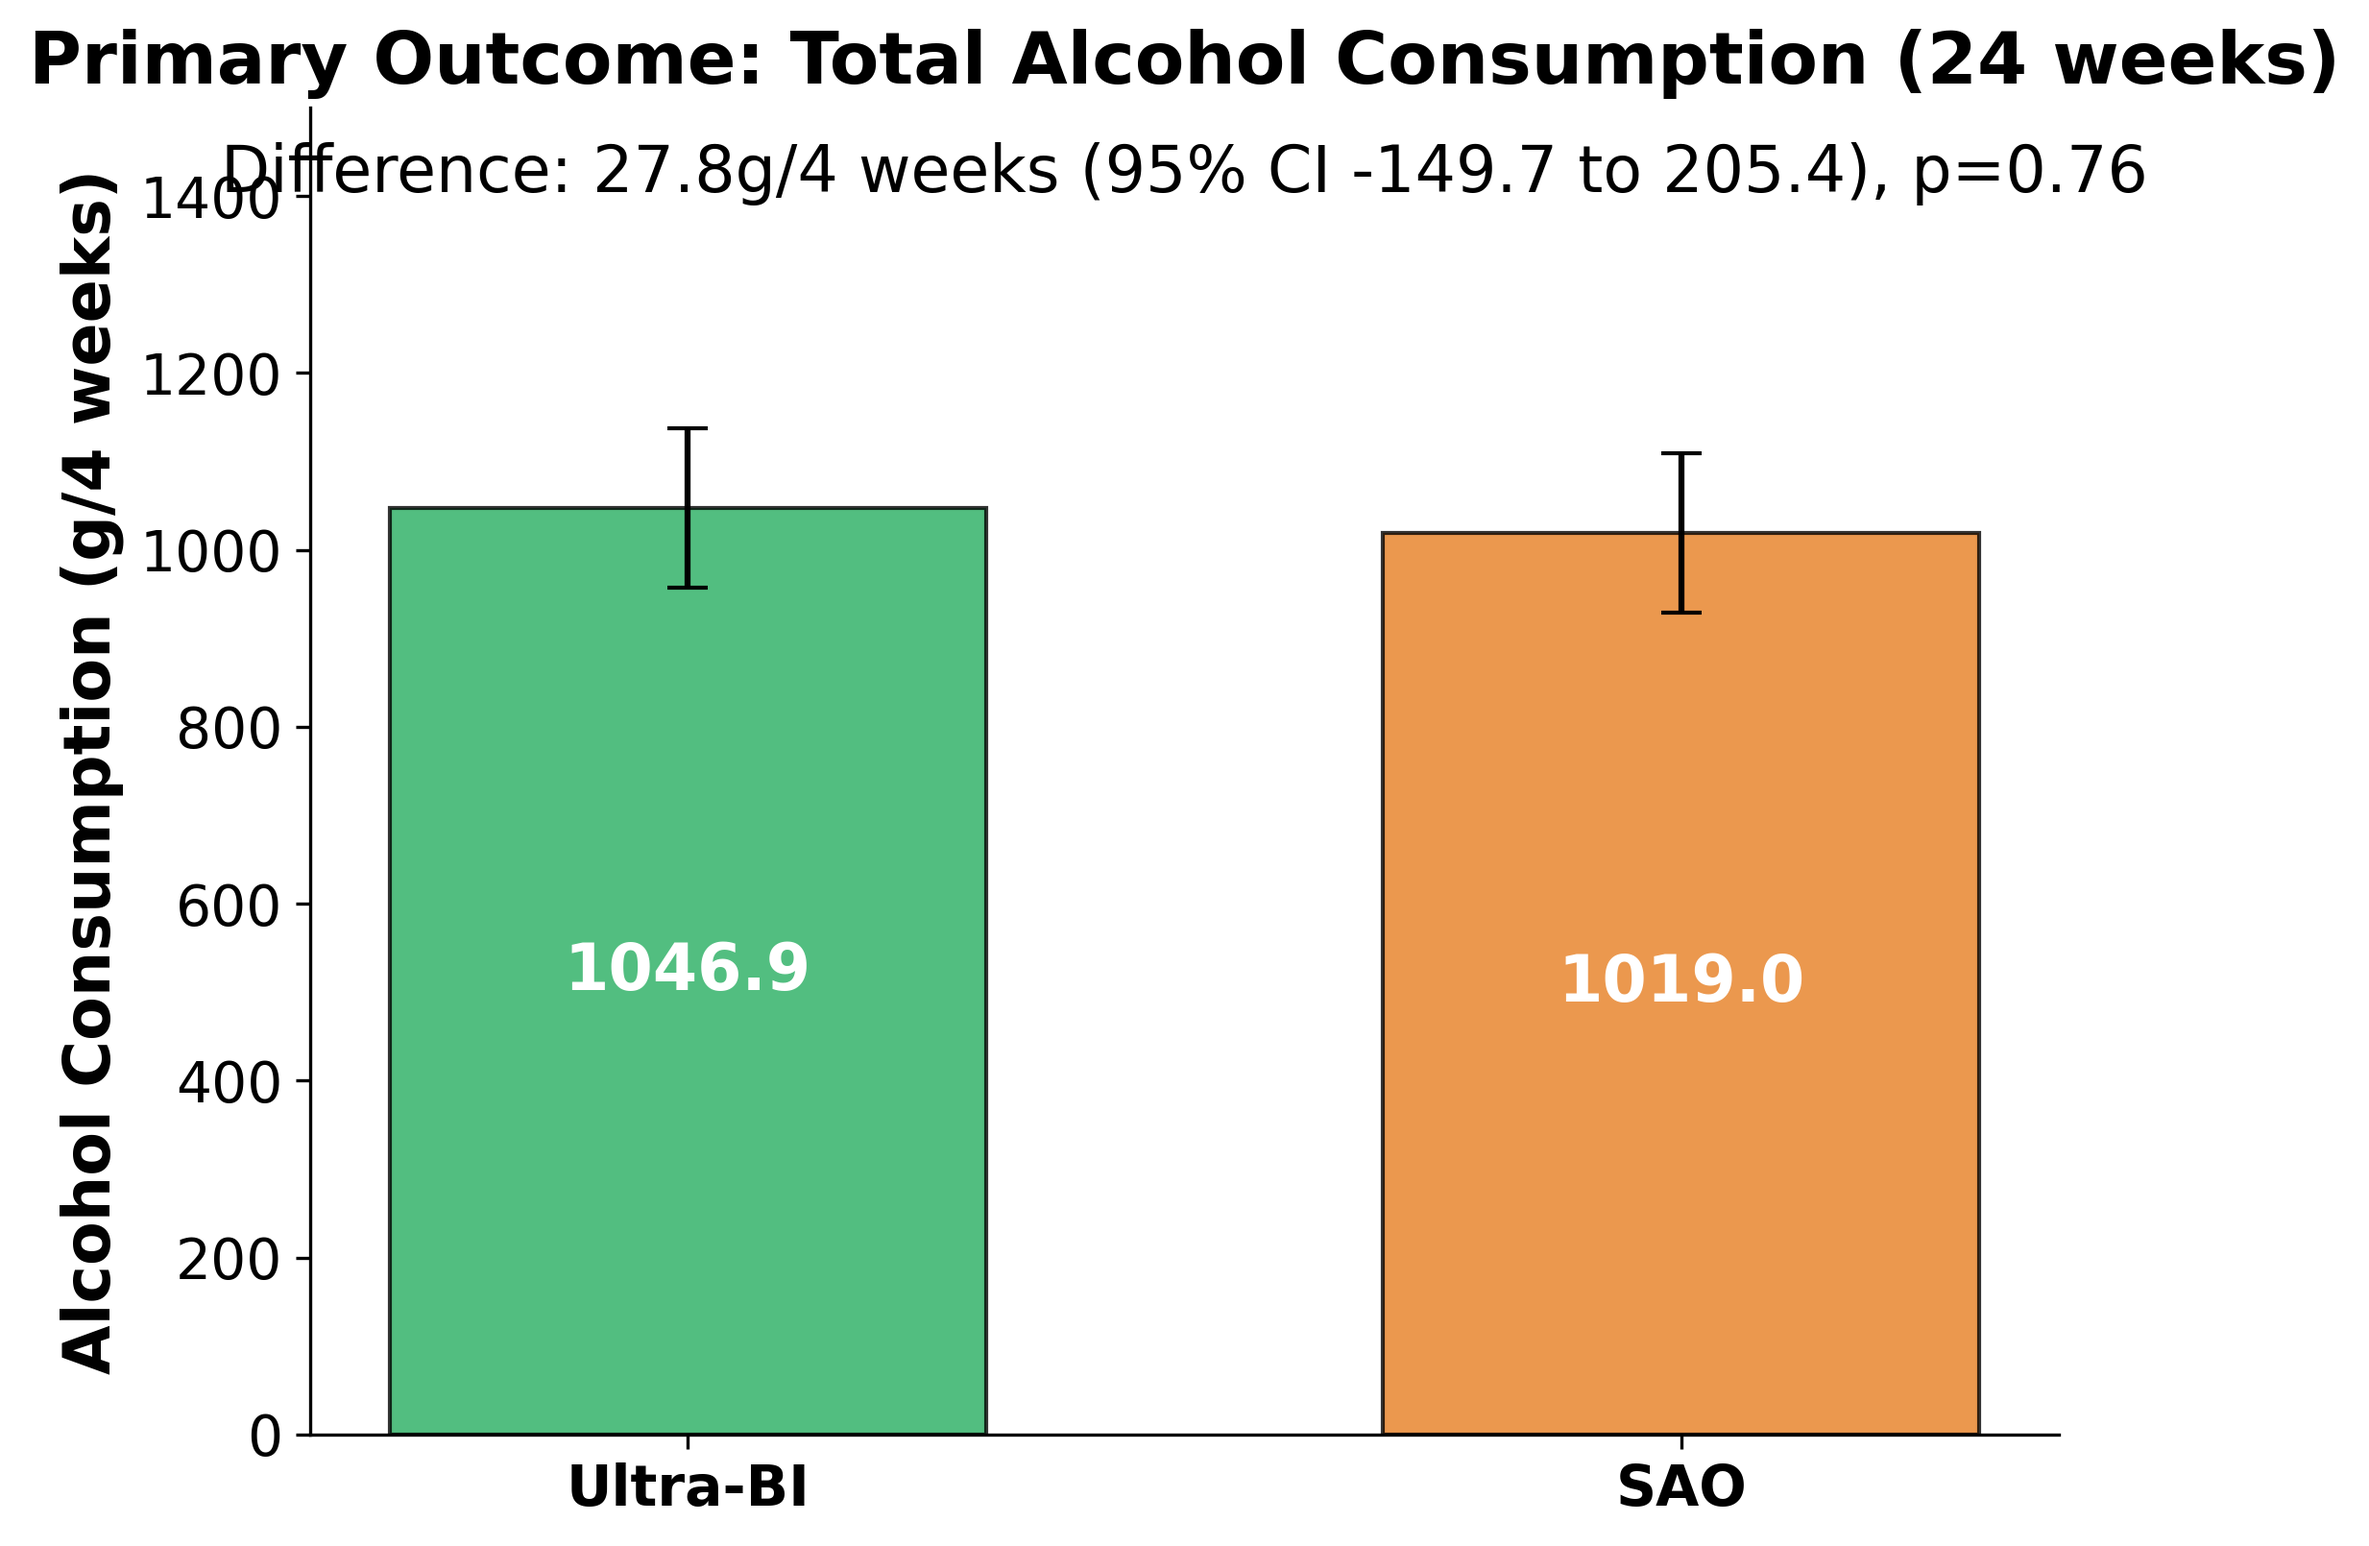
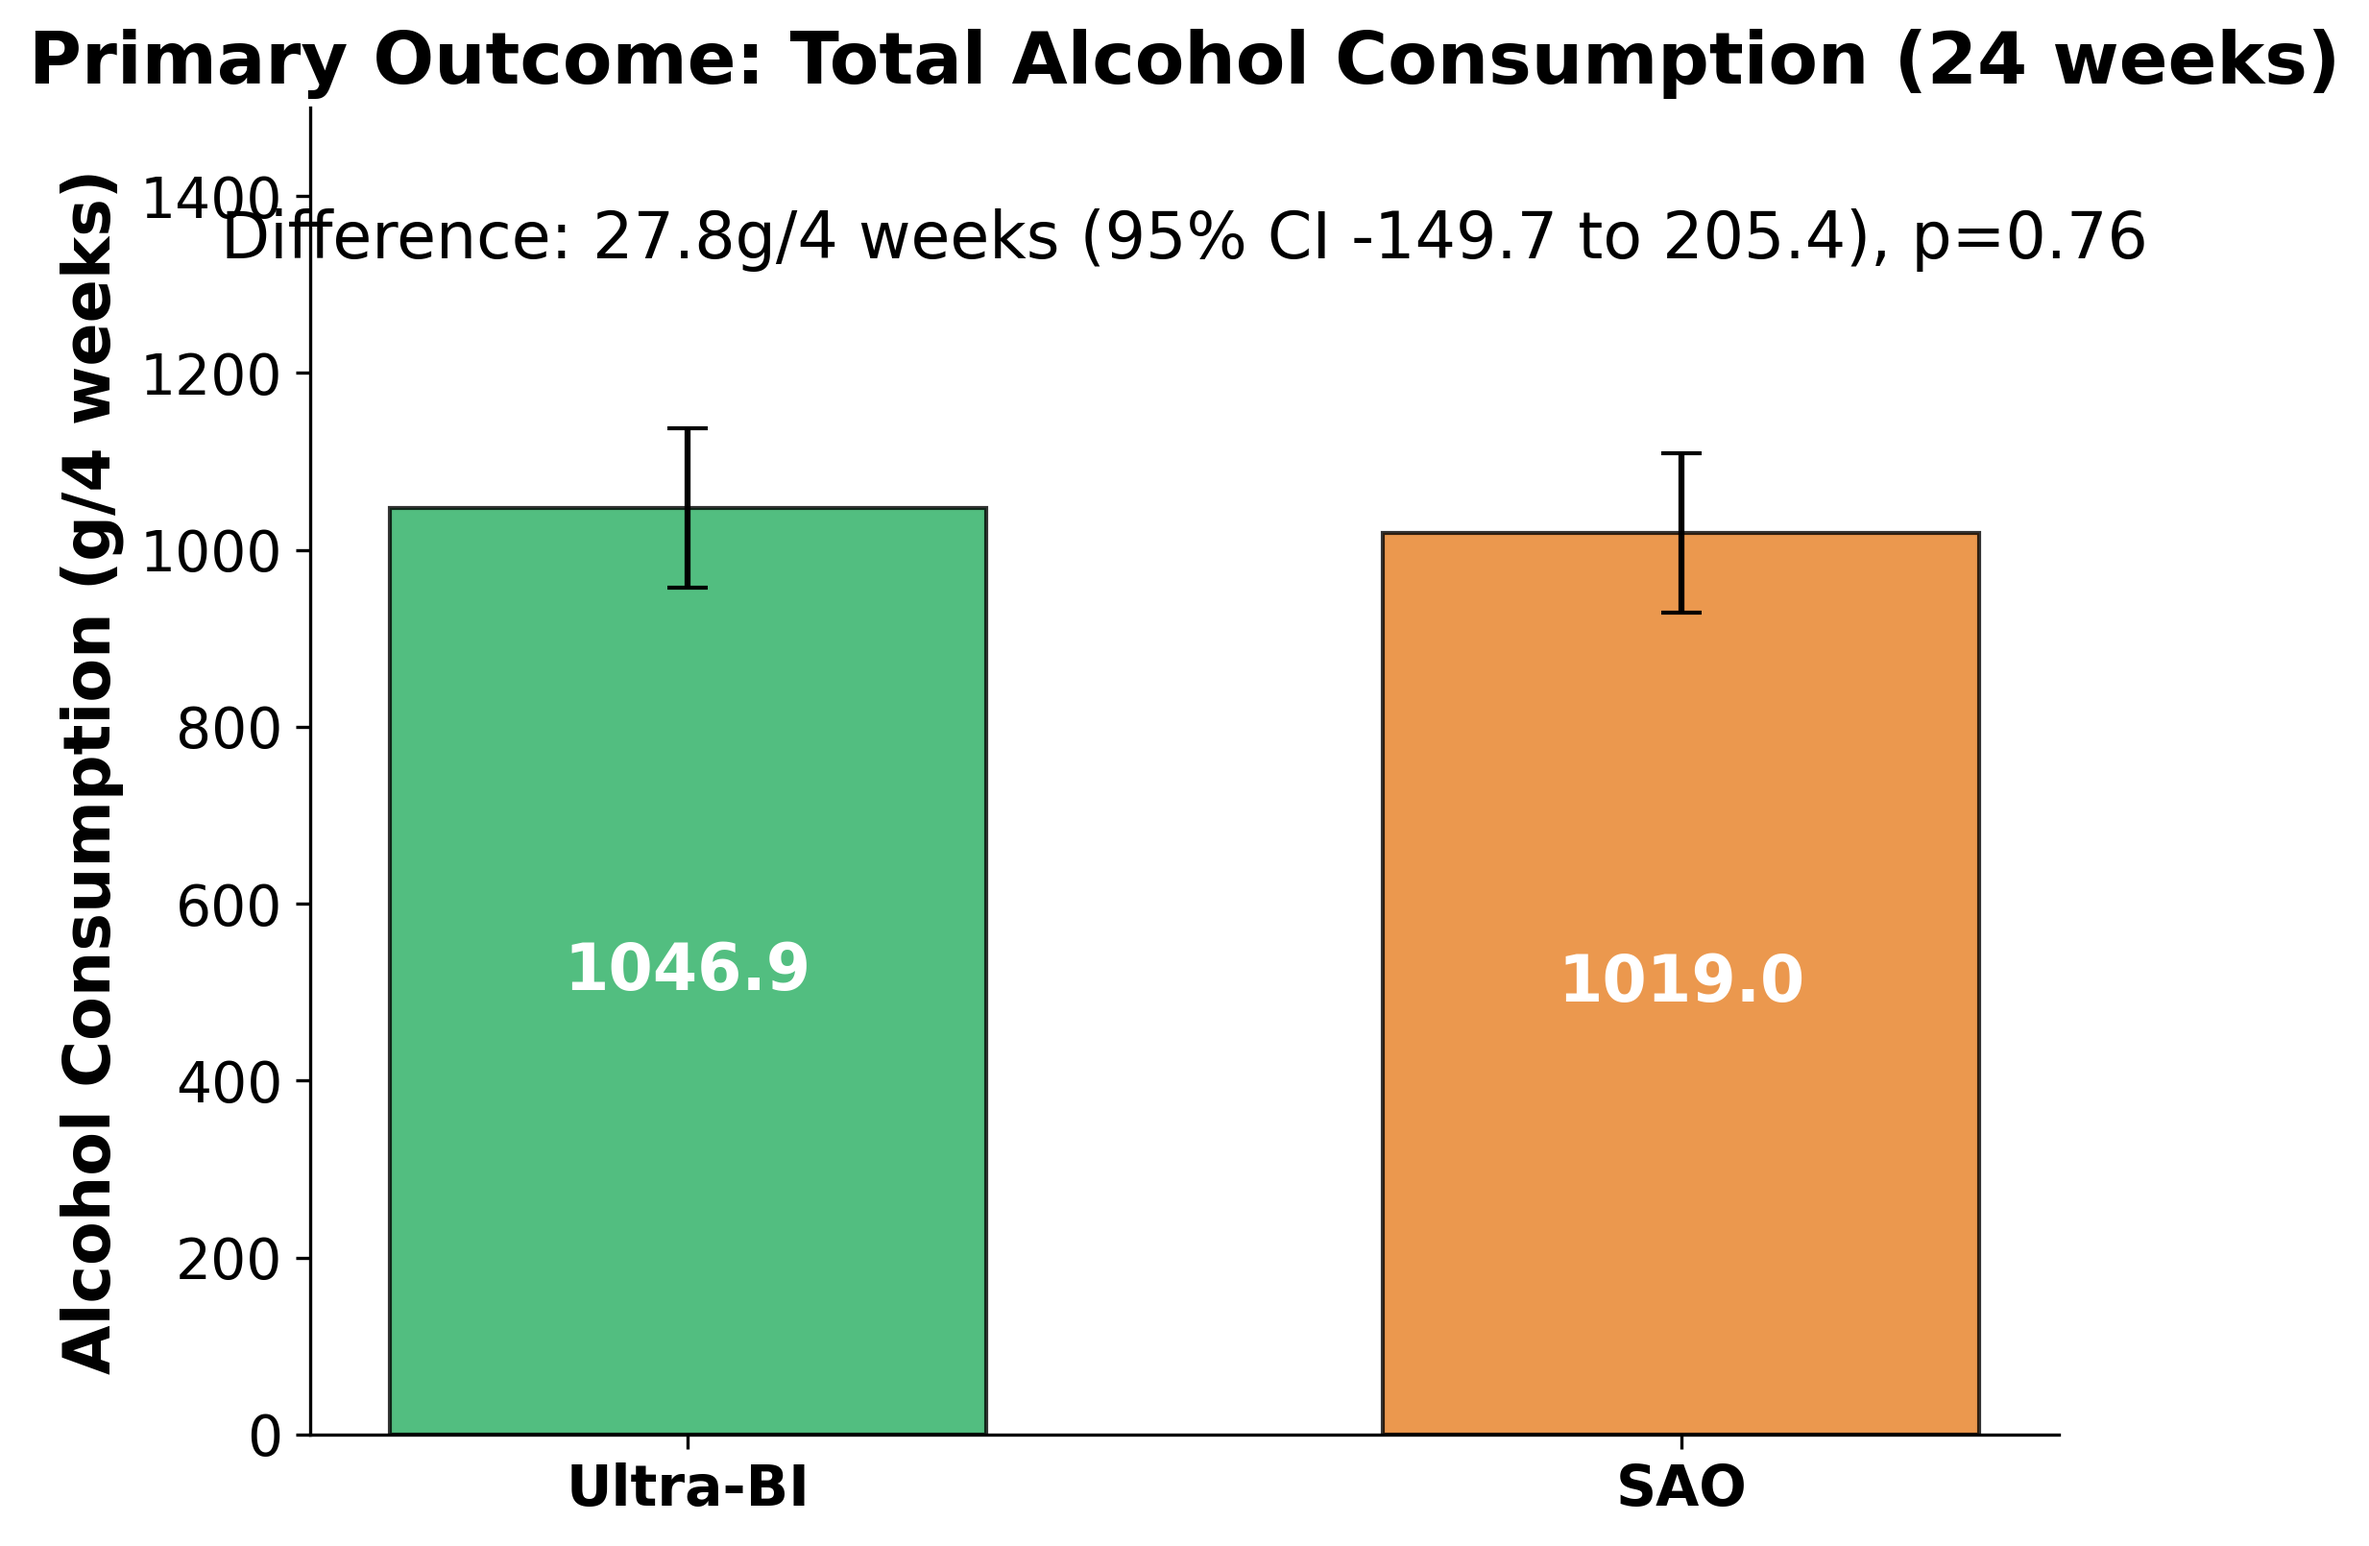
Fix graph text position to avoid axis overlap

Changed region(s): [[0.0936, 0.0932, 0.9051, 0.1863]]

diff --git a/design/draft/final_compact_visual_abstract.html b/design/draft/final_compact_visual_abstract.html
@@ -185,8 +185,8 @@
                 <div class="section-title">Study Design<br>&amp; Population</div>
                 <div class="section-content">
                     <div style="display: flex; justify-content: space-between;">
-                        <div style="flex: 1; margin-right: 10px;">Pragmatic cluster RCT</div>
-                        <div style="flex: 1; margin-right: 10px;">No allocation concealment / Participants blinded to study hypothesis</div>
+                        <div style="flex: 0.8; margin-right: 10px;">Pragmatic cluster RCT</div>
+                        <div style="flex: 1.4; margin-right: 10px; max-width: 300px;">No allocation concealment / Participants blinded to study hypothesis</div>
                         <div style="flex: 1;">Outpatients with AUDIT-C score ≥5 for men OR ≥4 for women</div>
                     </div>
                 </div>
@@ -197,19 +197,19 @@
         <div class="section">
             <!-- New side-by-side layout based on the image -->
             <div class="outcome-container">
-                <div class="comparison-side">
-                    <div class="comparison-header ultra-bi-header">Ultra-Brief Intervention (Ultra-BI)</div>
-                    <div class="comparison-image">
+                <div class="comparison-side" style="background-color: rgba(39, 174, 96, 0.1);">
+                    <div class="comparison-header ultra-bi-header" style="background-color: #27ae60;">Ultra-Brief Intervention (Ultra-BI)</div>
+                    <div class="comparison-image" style="background-color: rgba(39, 174, 96, 0.05);">
                         <img src="images/ultra_bi_illustration.png" alt="Ultra-BI Intervention">
                     </div>
-                    <div style="padding: 10px; background-color: #f9f9f9;">
+                    <div style="padding: 10px; background-color: rgba(39, 174, 96, 0.2);">
                         <ul style="margin: 0; padding-left: 20px;">
-                            <li>Brief advice on drinking reduction</li>
-                            <li>Personalized feedback on risks</li>
-                            <li>Goal-setting for consumption</li>
+                            <li>full AUDIT screening</li>
+                            <li>with leaflet</li>
+                            <li>oral feedback</li>
                         </ul>
                     </div>
-                    <div class="comparison-stats">
+                    <div class="comparison-stats" style="background-color: rgba(39, 174, 96, 0.05);">
                         <div class="icon-circle">
                             <span style="font-size: 16px; color: #27ae60;">👨⚕</span>
                         </div>
@@ -221,19 +221,19 @@
                     <img src="images/primary_outcome_graph_larger_text.png" alt="Primary Outcome Graph" class="outcome-graph">
                 </div>
                 
-                <div class="comparison-side">
-                    <div class="comparison-header sao-header">Simplified Assessment Only (SAO)</div>
-                    <div class="comparison-image">
+                <div class="comparison-side" style="background-color: rgba(230, 126, 34, 0.1);">
+                    <div class="comparison-header sao-header" style="background-color: #e67e22;">Simplified Assessment Only (SAO)</div>
+                    <div class="comparison-image" style="background-color: rgba(230, 126, 34, 0.05);">
                         <img src="images/sao_illustration.png" alt="SAO Intervention">
                     </div>
-                    <div style="padding: 10px; background-color: #f9f9f9;">
+                    <div style="padding: 10px; background-color: rgba(230, 126, 34, 0.2);">
                         <ul style="margin: 0; padding-left: 20px;">
-                            <li>Standard assessment only</li>
-                            <li>No specific advice provided</li>
-                            <li>Minimal interaction with patients</li>
+                            <li>AUDIT-C screening</li>
+                            <li>without leaflet</li>
+                            <li>no feedback</li>
                         </ul>
                     </div>
-                    <div class="comparison-stats">
+                    <div class="comparison-stats" style="background-color: rgba(230, 126, 34, 0.05);">
                         <div class="icon-circle">
                             <span style="font-size: 16px; color: #e67e22;">📝</span>
                         </div>

diff --git a/graphs/create_graphs_larger_text.py b/graphs/create_graphs_larger_text.py
@@ -21,7 +21,7 @@ groups = ['Ultra-BI', 'SAO']
 values = [1046.9, 1019.0]
 se = [90.0, 90.0]  # Estimated from the paper's CI
 
-ax.text(0.5, 0.95, 'Difference: 27.8g/4 weeks (95% CI -149.7 to 205.4), p=0.76', 
+ax.text(0.5, 0.90, 'Difference: 27.8g/4 weeks (95% CI -149.7 to 205.4), p=0.76', 
         ha='center', va='center', transform=ax.transAxes, fontsize=16)  # Increased from 12
 
 x_pos = np.arange(len(groups))
@@ -56,7 +56,7 @@ groups = ['Ultra-BI', 'SAO']
 values = [2.1, 1.9]  # Absolute values
 se = [0.05, 0.05]  # Estimated from the paper's CI
 
-ax.text(0.5, 0.95, 'Difference: 0.2 (95% CI 0.1 to 0.3), p=0.005', 
+ax.text(0.5, 0.90, 'Difference: 0.2 (95% CI 0.1 to 0.3), p=0.005', 
         ha='center', va='center', transform=ax.transAxes, fontsize=16)  # Increased from 12
 
 x_pos = np.arange(len(groups))
